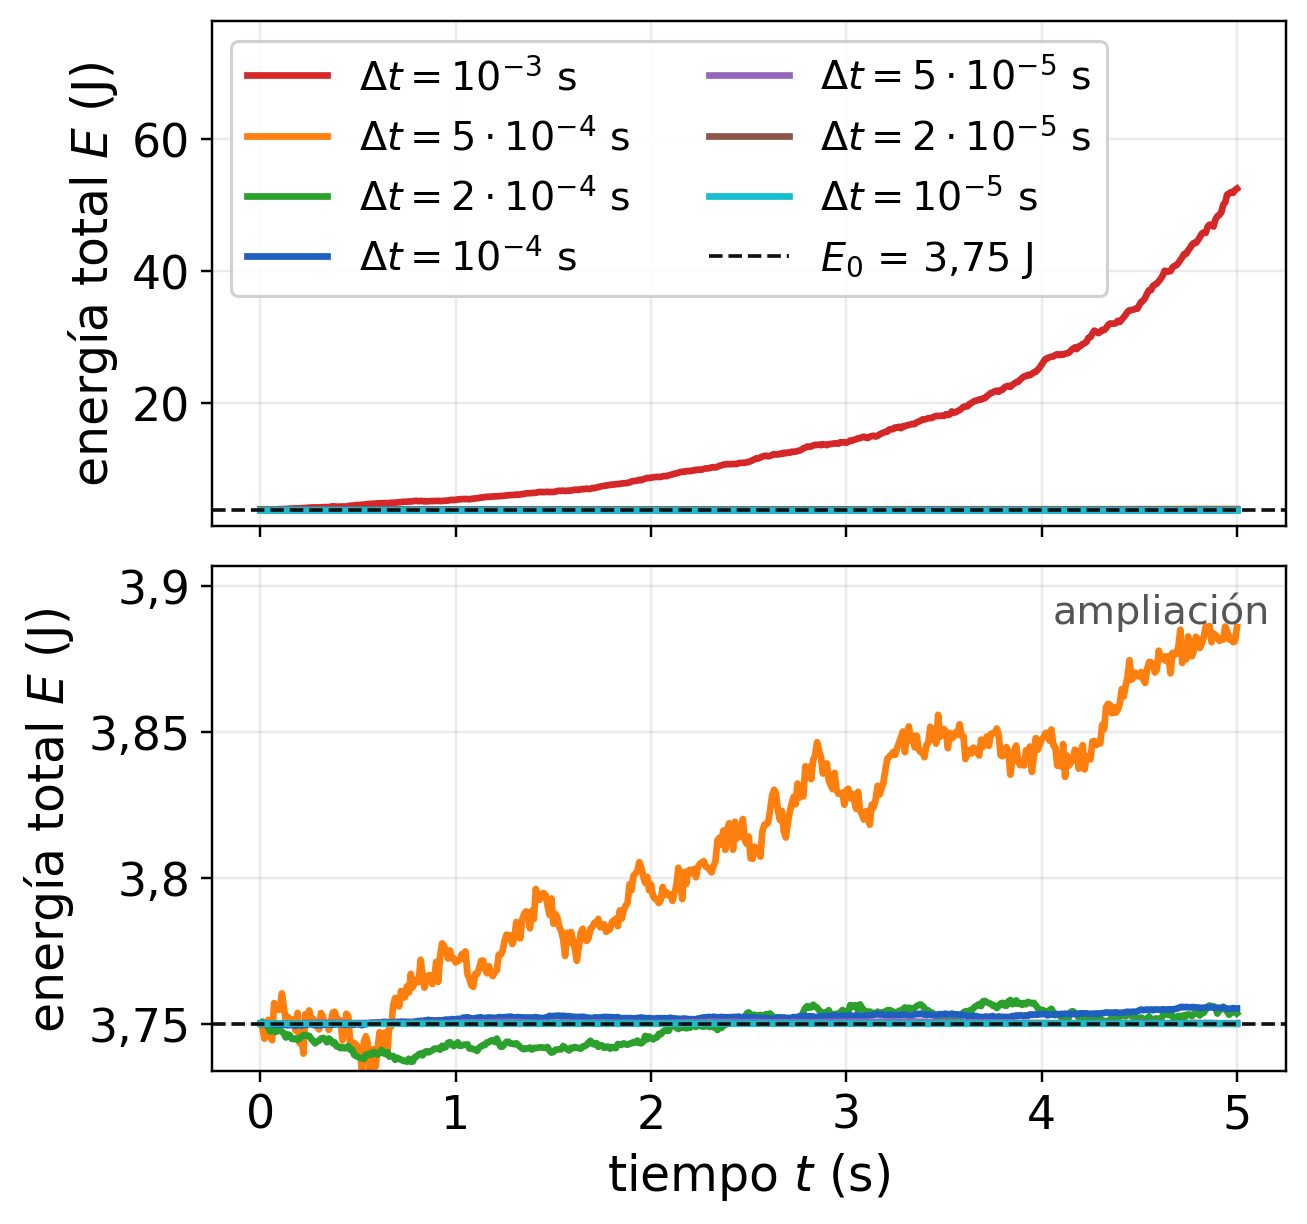
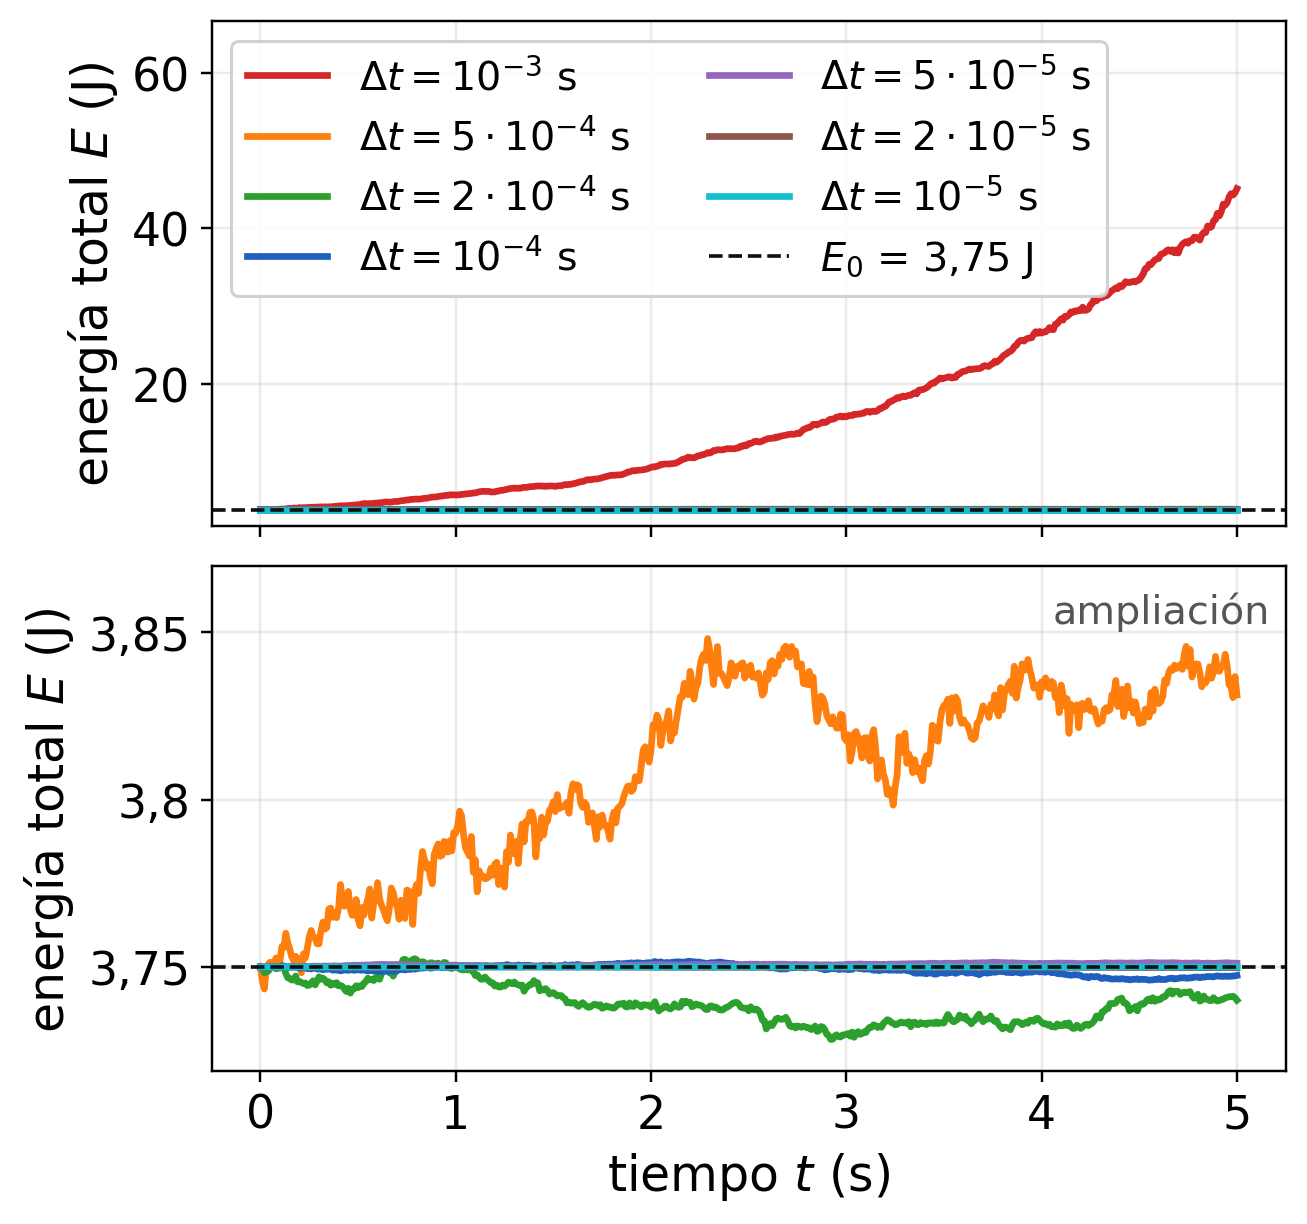
Reverificación: todas las corridas se regeneraron desde cero con el motor versionado y se compararon byte a byte con las que respaldaban las diapositivas (oscilador 36/36, velocidades 10/10, barrido de xo 330/330, mapa 180/180 y N = 700 idénticas); la única que no reproducía era la de energía con N 

diff --git a/report/presentacion.tex b/report/presentacion.tex
@@ -518,12 +518,12 @@
     \figbul{slide-13-energia-vs-t.png}{%
         \item $E_0 = N\,\tfrac{1}{2} m v_0^2 = \SI{3.75}{\joule}$: el sistema es
               conservativo y se mide cuánto se aparta.
-        \item Con $\dt = \SI{1e-3}{\second}$ explota hasta \SI{52}{\joule}: el choque
+        \item Con $\dt = \SI{1e-3}{\second}$ explota hasta \SI{45}{\joule}: el choque
               dura $\tau = \pi\sqrt{\mu/k} = \SI{3.5}{\milli\second}$ y entran sólo
               tres pasos.
-        \item Ampliación: cada paso más corto deriva menos; de
-              $\dt = \SI{1e-4}{\second}$ en adelante no se distinguen de $E_0$ en esta
-              escala.
+        \item Ampliación: $\SI{5e-4}{\second}$ deriva un \SI{2.6}{\percent} y
+              $\SI{2e-4}{\second}$ un \SI{0.6}{\percent} (hacia abajo); de
+              $\SI{1e-4}{\second}$ en adelante no se distinguen de $E_0$.
         \cond{$N = 300$, sin obstáculos, $t_f = \SI{5}{\second}$, $\dtd = \SI{0.01}{\second}$}
     }
 \end{frame}
@@ -531,10 +531,10 @@
 \begin{frame}{Elección del paso: deriva relativa máxima}
     \figbul{slide-14-deriva-vs-dt.png}{%
         \item Observable escalar: la deriva relativa máxima $D(\dt)$. Sobre los
-              pasos estables ajusta $D \propto \dt^{2,2}$: el segundo orden de Verlet.
+              pasos estables ajusta $D \propto \dt^{2,0}$: el segundo orden de Verlet.
         \item Criterio: el $\dt$ \textbf{más largo} con $D \leq 10^{-3}$, el de menor
               costo con el error aceptado.
-        \item \alert{$\dt = \SI{5e-5}{\second}$}: $D = 2{,}0\cdot10^{-4}$, y
+        \item \alert{$\dt = \SI{5e-5}{\second}$}: $D = 3{,}8\cdot10^{-4}$, y
               $2{,}6\cdot10^{-4}$ en el caso más exigente, $N = 700$ con obstáculos.
         \cond{$N = 300$, sin obstáculos, $t_f = \SI{5}{\second}$}
     }
@@ -672,9 +672,9 @@
         \item $\mtnov \approx \SI{21}{\second}$ de $N = 10$ a $50$ y \SI{23.7}{\second}
               en $N = 100$; desde $N = 200$ ninguna llega a $0{,}9$ en \SI{30}{\second}.
         \item \alert{Sí hay densidad óptima}: $\Fu(t_f)$ es máxima en $N = 30$--$50$
-              ($0{,}97$). Con pocas partículas casi no hay choques y cada una conserva
-              su momento angular: no llega al centro. Con muchas, el camino libre se
-              achica.
+              ($0{,}97$). Sin choques cada partícula conserva su momento angular y no
+              llega al centro: con $N = 1$ sólo convierte el \SI{13}{\percent} (300
+              realizaciones). Con muchas, el camino libre se achica.
         \item A $N = 700$ (\SI{82}{\percent} del área) se convierte el \SI{1}{\percent}.
         \cond{ítem 2.1.b: $x_o = r$, $t_f = \SI{30}{\second}$, 10 realizaciones}
     }
@@ -702,7 +702,7 @@
         \item Beeman y Verlet original: $\mathrm{ECM} \propto \dt^{4}$; Velocity Verlet
               y Euler p-c: $\propto \dt^{2}$. Beeman es el mejor para el oscilador.
         \item Por conservación de la energía, $\dt = \SI{5e-5}{\second}$: deriva
-              $2{,}0\cdot10^{-4}$ a $N = 300$ y $2{,}6\cdot10^{-4}$ a $N = 700$.
+              $3{,}8\cdot10^{-4}$ a $N = 300$ y $2{,}6\cdot10^{-4}$ a $N = 700$.
         \item El paso temporal escala como $N^{0,91}$ y los eventos como $N^{3,52}$:
               se cruzan cerca de $N = 490$.
         \item Hay un $x_o$ \alert{óptimo} en $0{,}2$--$\SI{0.3}{\meter}$:

diff --git a/visualization/single.py b/visualization/single.py
@@ -1,0 +1,67 @@
+"""Una sola partícula: por qué sin choques casi nadie llega a los obstáculos.
+
+Prueba de la explicación del ítem 2.4.a. La fuerza de la pared es puramente
+radial (partícula imagen sobre la normal), así que una partícula que no choca
+con otras conserva su momento angular respecto del centro, L = x v_y - y v_x,
+y nunca se acerca al centro más que su radio cáustico b = |L| / |v|. Con los
+obstáculos en contacto (xo = r) la zona de contacto llega hasta 3 r del
+centro: la partícula se convierte si y sólo si b < 3 r.
+
+Lee un barrido de `billar explore --ns 1` con un solo cuadro guardado (el de
+t = 0, con --save-every mayor que el número de pasos), calcula b de la
+condición inicial de cada realización y lo compara con si se convirtió.
+
+    python3 visualization/single.py --una data/una_particula
+"""
+
+from __future__ import annotations
+
+import argparse
+from pathlib import Path
+
+import numpy as np
+
+import common
+
+
+def main() -> None:
+    parser = argparse.ArgumentParser(description=__doc__,
+                                     formatter_class=argparse.RawDescriptionHelpFormatter)
+    parser.add_argument("--una", type=Path, default=common.DATA / "una_particula")
+    arguments = parser.parse_args()
+
+    _, cases = common.read_explore(arguments.una)
+    impact, converted, when = [], [], []
+    for case in cases.values():
+        for run in case["runs"]:
+            static, _, states = common.load_run(run)
+            if static["N"] != 1:
+                raise SystemExit(f"{run}: este análisis es para N = 1")
+            x, y, vx, vy = states[0, 0, :4]
+            impact.append(abs(x * vy - y * vx) / np.hypot(vx, vy))
+            events = common.read_conversions(run)
+            converted.append(len(events) > 0)
+            when.append(events[0] if len(events) else np.nan)
+    radius, domain = static["r"], static["R"]
+    impact, converted = np.array(impact), np.array(converted)
+    predicted = impact < 3.0 * radius
+
+    # Fracción esperada para posiciones uniformes en el disco de radio R - r y
+    # direcciones isótropas, por Monte Carlo directo de la misma distribución.
+    rng = np.random.default_rng(1)
+    rho = (domain - radius) * np.sqrt(rng.random(10 ** 6))
+    theta, phi = rng.random(10 ** 6) * 2 * np.pi, rng.random(10 ** 6) * 2 * np.pi
+    sample = np.abs(rho * np.cos(theta) * np.sin(phi) - rho * np.sin(theta) * np.cos(phi))
+
+    print(f"realizaciones con N = 1: {len(impact)}, tmax = {static['tmax']:g} s")
+    print(f"se convierten: {converted.sum()} ({100 * converted.mean():.1f} %)")
+    print(f"con b < 3r:    {predicted.sum()} ({100 * predicted.mean():.1f} %)")
+    print(f"se convierten con b >= 3r: {(converted & ~predicted).sum()}; "
+          f"con b < 3r y no se convierten: {(predicted & ~converted).sum()}")
+    print(f"fracción esperada P(b < 3r): {(sample < 3.0 * radius).mean():.3f}")
+    if converted.any():
+        print(f"instante medio de conversión de las que llegan: {np.nanmean(when):.1f} s")
+
+
+if __name__ == "__main__":
+    main()

diff --git a/visualization/energy.py b/visualization/energy.py
@@ -116,10 +116,12 @@ def main() -> None:
     bottom.set_xlabel(common.AXIS_TIME)
     common.headroom(top, 0.30)
     top.legend(loc="upper left", ncol=2)
-    # La ampliacion muestra lo que la escala completa aplasta: el margen de
-    # arriba es el 15 % de la deriva mas grande entre los pasos estables.
-    span = max(row["E"].max() for row in stable_rows) - rows[0]["E0"]
-    bottom.set_ylim(rows[0]["E0"] - 0.12 * span, rows[0]["E0"] + 1.15 * span)
+    # La ampliacion muestra lo que la escala completa aplasta: el rango es el
+    # de los pasos estables (la deriva puede ser hacia arriba o hacia abajo),
+    # con un margen arriba para el rotulo.
+    low = min(row["E"].min() for row in stable_rows)
+    high = max(row["E"].max() for row in stable_rows)
+    bottom.set_ylim(low - 0.08 * (high - low), high + 0.18 * (high - low))
     bottom.text(0.985, 0.95, "ampliación", transform=bottom.transAxes, ha="right", va="top",
                 color="#555555", fontsize=plt.rcParams["legend.fontsize"])
     energy_figure = out_dir / f"energia_vs_t_N{count}.png"

diff --git a/PLAN.md b/PLAN.md
@@ -375,6 +375,18 @@ es el cambio de color de una partícula, que es parte del estado.
 
 ### Ítem 2.4 — Efecto de la densidad
 
+- Por qué hay densidad óptima: la fuerza de la pared es radial (partícula
+  imagen sobre la normal), así que una partícula que no choca con otras
+  conserva su momento angular respecto del centro y nunca se acerca más que
+  su radio cáustico `b = |L|/|v|`; con los obstáculos en contacto se convierte
+  si y sólo si `b < 3r`. **Probado** con `make una-particula` (`N = 1`, 300
+  realizaciones, `tmax = 60 s`): se convierten 40 de 300 (13 %), exactamente
+  las 40 con `b < 3r`, contra el 13,6 % que predice la distribución de `b`
+  para posiciones uniformes y direcciones isótropas; `L` se conserva a
+  `6·10⁻¹¹` relativo en 20 s con 21 rebotes. A densidad alta el camino libre
+  se achica y el blanco queda rodeado: por eso `Fu(tf)` es máxima en
+  `N = 30–50`.
+
 - (a) De las corridas del 2.1.b, como pide el enunciado: `⟨t90⟩` y `⟨t100⟩`
   contra `ρ = N/(πR²)`, con el `N` correspondiente en el eje de arriba. Con
   los obstáculos en contacto y `tf = 30 s` fijos, por encima de cierta
@@ -424,15 +436,23 @@ Se cambian si los profesores indican otra cosa.
    diapositivas 17 y 20 dan explícitamente cómo tratar la dependencia con la
    velocidad (paso intermedio a medio paso y predictor-corrector); se usan tal
    cual. Que eso le cueste un orden a Velocity Verlet es parte del resultado,
-   no un error de implementación.
+   no un error de implementación. **Verificado** con una implementación
+   independiente en Python del oscilador: evaluando `a(t+dt)` con la velocidad
+   de medio paso el ECM escala como `dt^2,04`; si en cambio se evalúa con la
+   velocidad predicha por Euler, `v(t) + a(t) dt`, escala como `dt^4,00` y
+   el ECM coincide con el de Beeman (5,9·10⁻⁹ contra 5,3·10⁻⁹ en
+   `dt = 2·10⁻³ s`). La pérdida de orden es del predictor de medio paso, cuyo
+   error respecto de `v(t+dt)` es `O(dt)`, no de un error de código.
 4. **`dt = 5·10⁻⁵ s` para todo el sistema 2**, elegido en el ítem 2.1.a con la
-   cota de deriva de 0,1 %: da `D = 2,0·10⁻⁴` a `N = 300` sin obstáculos y
+   cota de deriva de 0,1 %: da `D = 3,8·10⁻⁴` a `N = 300` sin obstáculos y
    `2,6·10⁻⁴` a `N = 700` con los obstáculos en contacto (`make energia-densa`),
    con un solapamiento máximo del 26 % de `r` y ninguna partícula fuera del
    dominio (`visualization/check.py`).
 5. **Condición inicial.** La del enunciado (adición secuencial al azar con
    rechazo) hasta `N = 400`; por encima de `N ≈ 450` la fracción de área pasa
-   el límite del empaquetamiento al azar y no entra, así que el barrido de
+   el límite del empaquetamiento al azar y no entra (verificado: con
+   `--placement random` la partícula 446 no encuentra lugar tras 10⁶ intentos,
+   sea `N = 450`, `470` o `500`; `N = 430` entra en 0,05 s), así que el barrido de
    `N` del 2.1.b usa una **red triangular** con el mayor paso que aloja `N`
    sitios, igual que en el TP3 y con la misma distribución uniforme de
    direcciones. La figura de apoyo muestra las dos condiciones iniciales para

diff --git a/README.md b/README.md
@@ -64,6 +64,7 @@ tp-4/
 pip install -r requirements.txt
 make build                 # engine/build/billar
 make check                 # validación: deriva de energía, solapamientos y escapes (visualization/check.py)
+make una-particula         # N = 1: sin choques sólo se convierte si el parámetro de impacto es < 3r (ítem 2.4.a)
 make oscilador             # sistema 1: los 4 esquemas y los 9 dt
 make oscilador-figuras     # ECM vs dt (la única figura del sistema 1) y la trayectoria
 make energia               # ítem 2.1.a: N = 300 sin obstáculos, barrido de dt con cuadros
@@ -242,6 +243,7 @@ vale `m v0²/2 = 0,0125 J`.
 | `density.py` | 2.4.a | `⟨t90⟩` y `⟨t100⟩` contra la densidad desde las corridas del 2.1.b, con el `N` en el eje de arriba |
 | `heatmap.py` | 2.4.b | mapa de calor de `⟨t90⟩` en el plano `(xo, N)`, con el óptimo de cada `N` marcado |
 | `animate.py` | — | animación (un cuadro por estado guardado, `t` y las usadas en pantalla), tira de cuadros `--snapshots` y cuadro único con el lienzo del video `--cuadro` |
+| `single.py` | 2.4.a | `N = 1`: compara si cada realización se convierte con su parámetro de impacto inicial `b = |L|/|v|` (sin choques, `L` se conserva y sólo llega al centro si `b < 3r`) |
 | `check.py` | — | validación desde los estados guardados: deriva de energía, solapamiento máximo con partículas, obstáculos y pared, y escape fuera del dominio |
 
 Todas las figuras llevan los ejes en palabras con la unidad **en una sola
